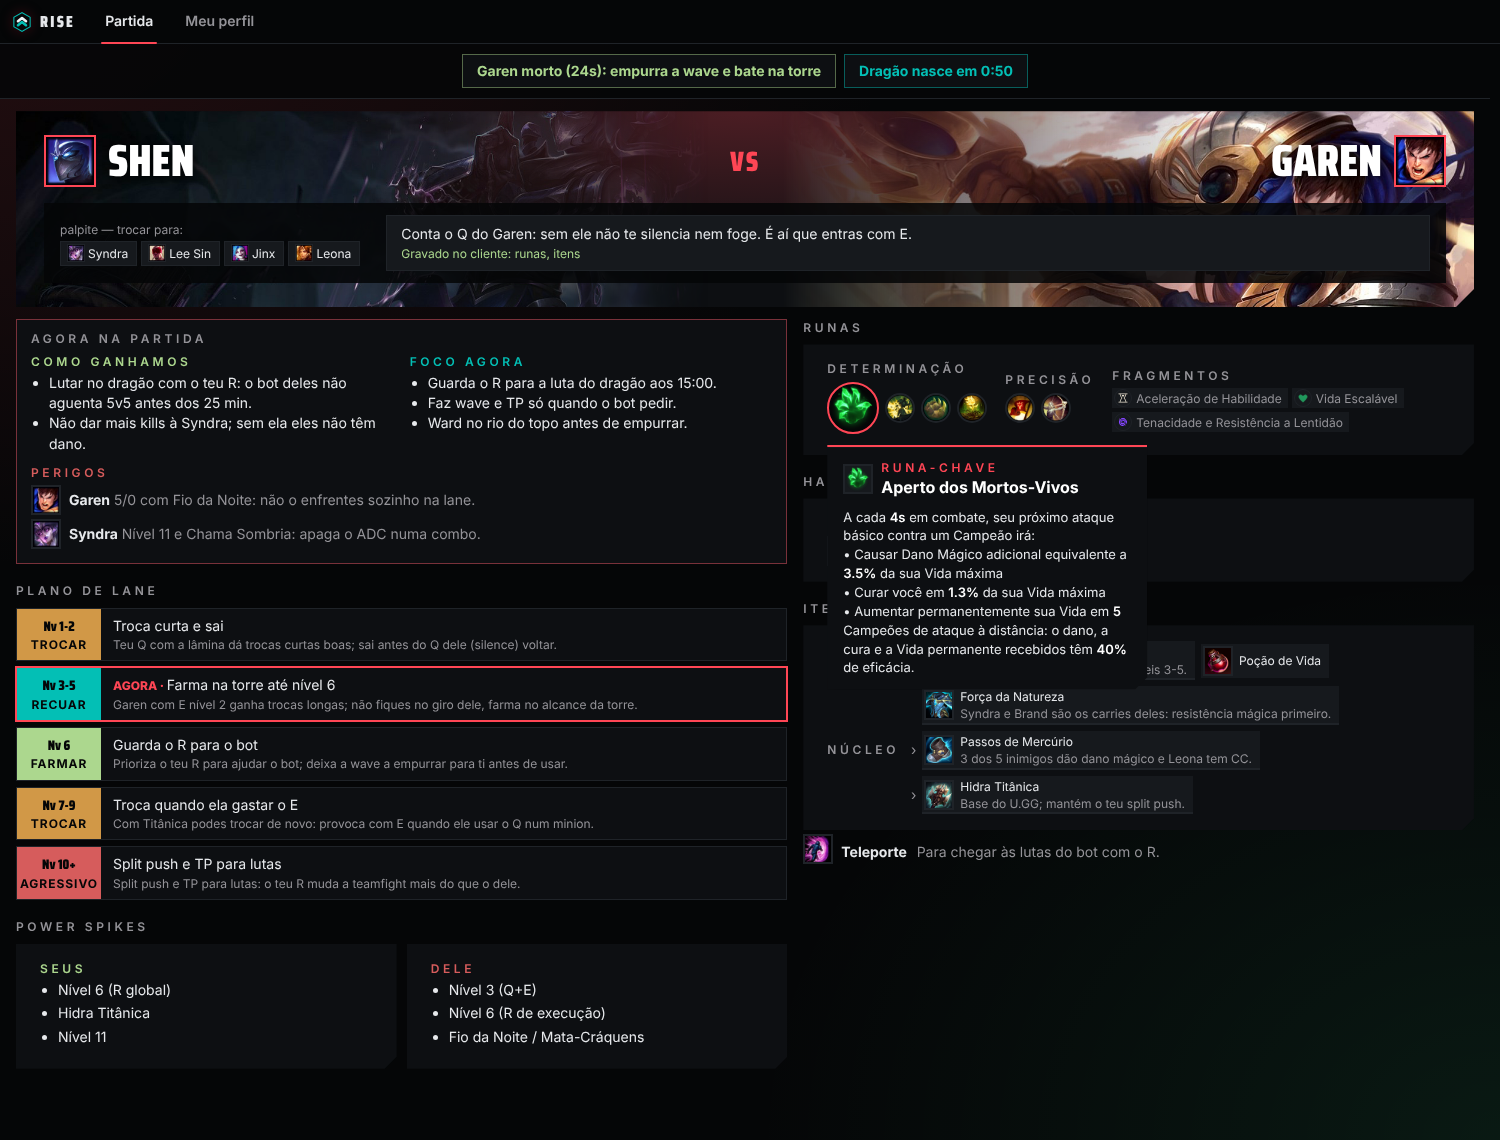
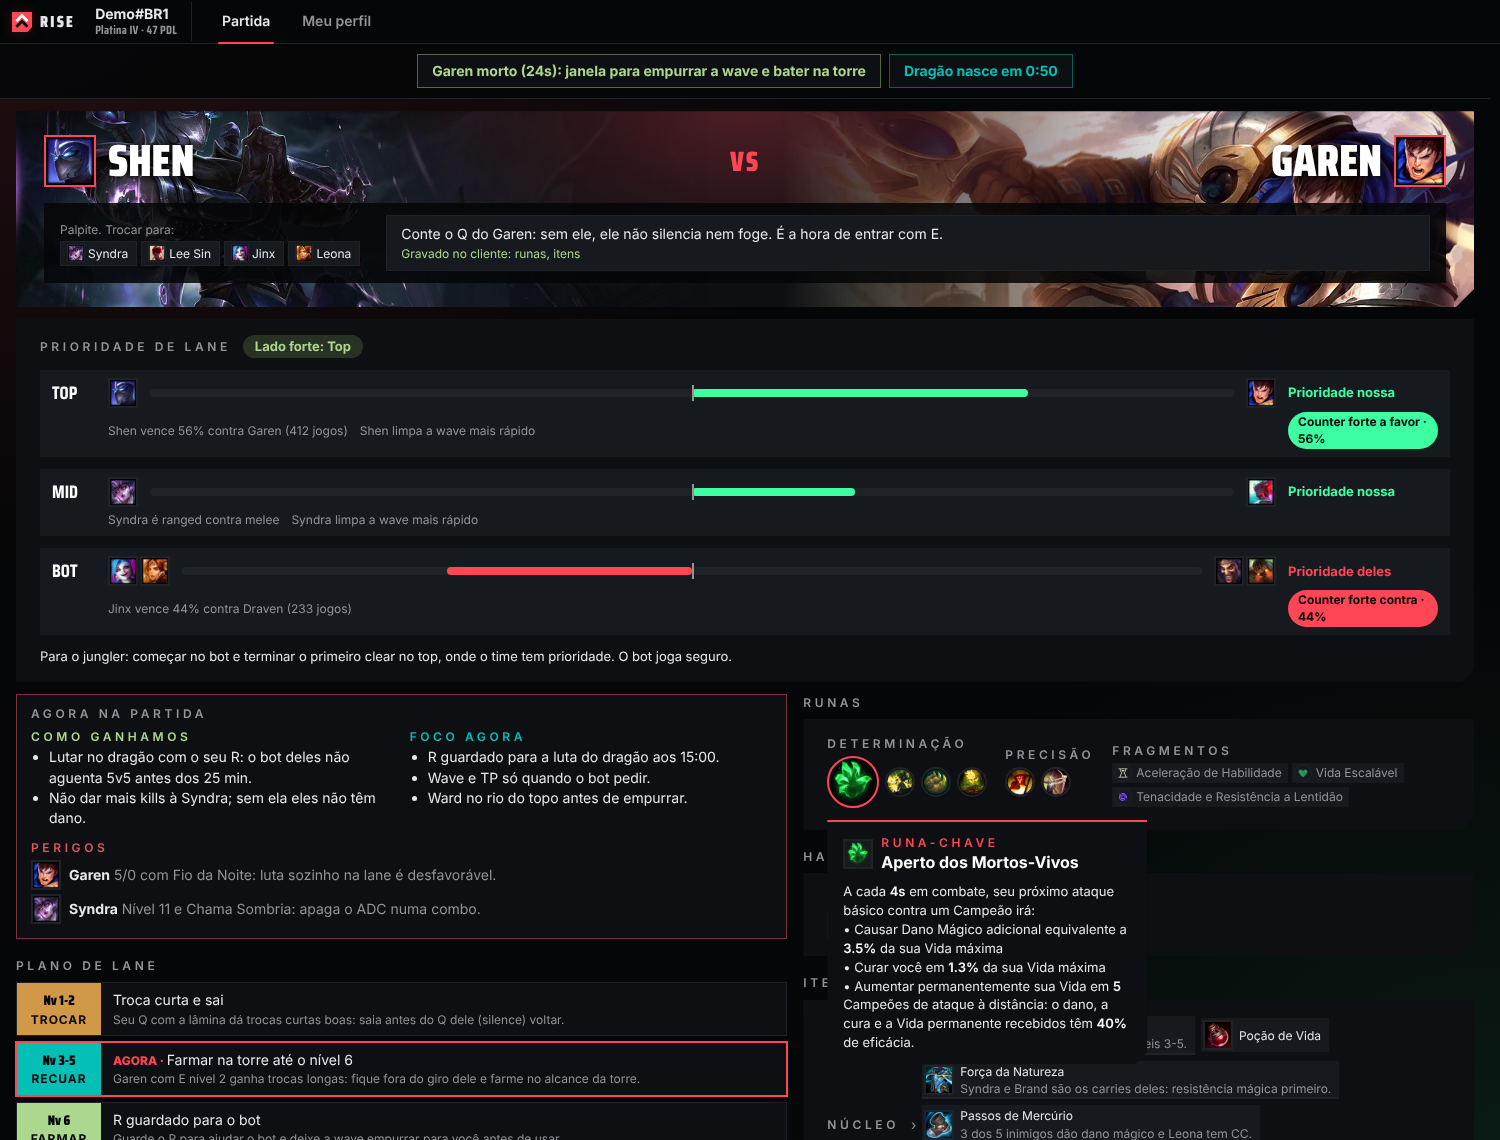
Prints novos: prioridade de lane, plano, cards, pós-partida, perfil e coach
Claude-Session: https://claude.ai/code/session_01A9kCdaGhy6rGBCzv5NSGdF

diff --git a/index.html b/index.html
@@ -81,7 +81,7 @@
   <h2>How it works</h2>
   <div class="grid">
     <div class="card"><h3>1. Open with the League client</h3><p>Rise runs on the player’s computer next to the League client and reads only the player’s own session.</p></div>
-    <div class="card"><h3>2. Champion select</h3><p>A plan for the lane with runes, items, spells and skill order, built from aggregated ranked data. Rise writes the suggested rune page and item set to the client; the player can change or ignore them.</p></div>
+    <div class="card"><h3>2. Champion select</h3><p>Lane priority and hard counters, then a plan for the lane with runes, items, spells and skill order, built from aggregated ranked data. Rise writes the suggested rune page and item set to the client; the player can change or ignore them.</p></div>
     <div class="card"><h3>3. During the game</h3><p>Short reminders using only what the player can already see in the game: objective timers and the next planned item.</p></div>
     <div class="card"><h3>4. After the game</h3><p>A review of the player’s own match (deaths, CS, gold and XP against the lane opponent) and one focus for the next game.</p></div>
   </div>
@@ -90,9 +90,10 @@
 <section>
   <span class="lbl">Before the game</span>
   <h2>A plan for your lane</h2>
-  <p>Suggestions with the reason for each one, so the player decides. Hover any item, rune, spell or ability for its full description.</p>
+  <p>Which lane will likely push first, the hard counters and the strong side, from real high-elo matchup results. Then a plan for the lane with the reason for each suggestion, so the player decides. Hover any item, rune, spell or ability for its full description.</p>
   <div class="shots">
-    <figure><img src="img/champ-select.png" alt="Lane plan: matchup, win conditions, runes, items and plan by level" width="1500" height="1140" loading="lazy"><figcaption><b>Lane plan</b>Matchup, win conditions and options for each phase of the lane.</figcaption></figure>
+    <figure><img src="img/lane-priority.png" alt="Lane priority: a tug of war per lane, hard counters and the strong side, above the pick suggestions" width="1500" height="1140" loading="lazy"><figcaption><b>Lane priority</b>Who pushes first in each lane, hard counters and the strong side for the jungler.</figcaption></figure>
+    <figure><img src="img/champ-select.png" alt="Lane plan: matchup, win conditions, runes, items and plan by level" width="1500" height="1140" loading="lazy"><figcaption><b>Lane plan</b>Win conditions, threats and options for each phase of the lane.</figcaption></figure>
     <figure><img src="img/hover-cards.png" alt="Hover card with the full description of the suggested keystone rune" width="1500" height="1140" loading="lazy"><figcaption><b>Hover cards</b>Every item, rune, spell and ability, explained.</figcaption></figure>
   </div>
 </section>
@@ -100,9 +101,10 @@
 <section>
   <span class="lbl">After the game</span>
   <h2>Learn from your own matches</h2>
-  <p>A review of the match the player just finished, compared with the lane opponent, and a weekly coach note built from the player’s recent games.</p>
+  <p>A review of the match the player just finished, compared with the lane opponent. Mérito, Rise’s own measure of how well each game was played, moves with the quality of play more than with the result, with personal levels that are never compared with the ranked ladder. A weekly coach note comes from the player’s recent games.</p>
   <div class="shots">
     <figure><img src="img/post-game.png" alt="Post-game review with the match grade, what went well and what to improve" width="1500" height="1140" loading="lazy"><figcaption><b>Post game</b>What went well, what to fix, and one focus for the next game.</figcaption></figure>
+    <figure><img src="img/perfil.png" alt="Profile with Mérito, its personal level, recent grades and achievements" width="1500" height="1140" loading="lazy"><figcaption><b>Profile</b>Mérito, recent grades, records and achievements.</figcaption></figure>
     <figure><img src="img/coach.png" alt="Coach with the theme of the week, lessons and exercises" width="1500" height="1140" loading="lazy"><figcaption><b>Coach</b>The theme of the week, from the player’s own games.</figcaption></figure>
   </div>
   <p class="notice">Screenshots use a fictional demo account (Demo#BR1).</p>
